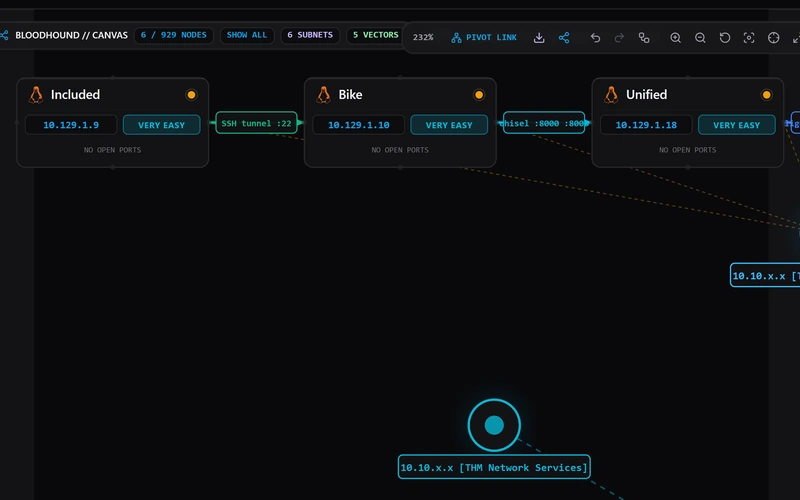
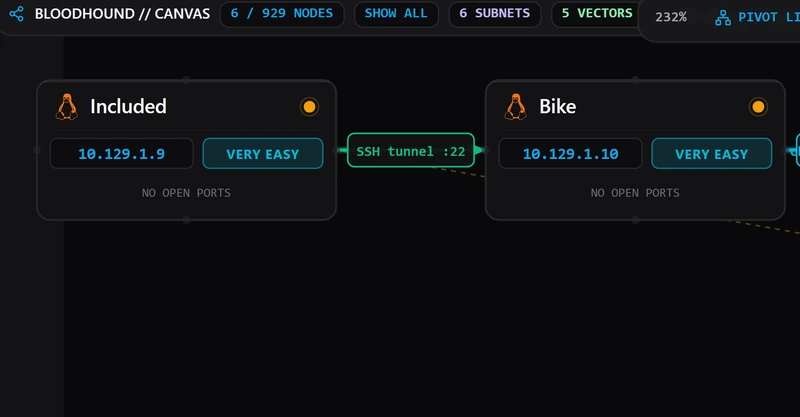
feat(site): composed hero scene with a browser window, pacing card, toast and readable crops
Replaces the two pasted screenshots with a layered scene: an HTML browser
frame around a focused app crop, an exam pacing card and a rabbit-hole
toast, each with its own elevation and a one-shot spring entrance. Phones
get the scene too. Graph and vault crops are tightened for legibility.

Claude-Session: https://claude.ai/code/session_01YH6H74T2HfFgAT5bbL9ywR

diff --git a/scripts/site/css/40-landing.css b/scripts/site/css/40-landing.css
@@ -5,12 +5,25 @@
 .frame{transition:transform var(--spring-dur) var(--spring),box-shadow var(--spring-dur) var(--spring);overflow:hidden;border-radius:var(--r-lg);background:var(--card);box-shadow:0 0 0 1px rgb(255 255 255/.1),0 24px 48px -20px rgb(0 0 0/.7)}
 .frame img{display:block;width:100%;height:auto}
 .frame picture{display:block}
-.hero{padding:var(--s6) 0 var(--s5)}
+.hero{padding:var(--s6) 0 var(--s5);overflow-x:clip}
 .hero-grid{display:grid;gap:var(--s6)}
 .hero h1{margin:0 0 var(--s4);font-size:clamp(2.25rem,1.5rem + 2.4vw,3.25rem);text-wrap:balance}
 .hero .lead{max-width:44ch;margin:0 0 var(--s5);color:var(--muted);font-size:1.125rem}
-.hero-media{position:relative}
-.hud{display:none}
+.hero-media{--hair:rgb(255 255 255/.1);--e1:0 0 0 1px var(--hair),0 28px 56px -24px rgb(0 0 0/.7);--e2:0 0 0 1px var(--hair),inset 0 1px 0 rgb(255 255 255/.05),0 4px 8px -2px rgb(0 0 0/.35),0 22px 40px -14px rgb(0 0 0/.8);--e3:0 0 0 1px rgb(255 255 255/.14),inset 0 1px 0 rgb(255 255 255/.06),0 6px 12px -3px rgb(0 0 0/.4),0 30px 52px -14px rgb(0 0 0/.85);position:relative;isolation:isolate;max-width:640px;margin:0 auto var(--s5)}
+.hero-media::before{content:"";position:absolute;z-index:-1;inset:-16% -12%;background:radial-gradient(closest-side,var(--elev),transparent);opacity:.85;pointer-events:none}
+.win{overflow:hidden;border-radius:var(--r-lg);background:#0c0c0f;box-shadow:var(--e1);transition:transform var(--spring-dur) var(--spring)}
+.win-bar{position:relative;display:flex;align-items:center;justify-content:center;height:28px;background:#131316;border-bottom:1px solid var(--hair)}
+.win-bar::before{content:"";position:absolute;left:12px;width:8px;height:8px;border-radius:50%;background:#3f3f46;box-shadow:14px 0 #3f3f46,28px 0 #3f3f46}
+.win-bar span{padding:4px 14px;border:1px solid var(--hair);border-radius:var(--r-pill);background:#0c0c0f;color:#a1a1aa;font:500 11px/1 var(--font-mono)}
+.win img{display:block;width:100%;height:auto}
+.fl{position:absolute;overflow:hidden;border-radius:var(--r-md);background:#121215;color:#e4e4e7;box-shadow:var(--e2);transition:transform var(--spring-dur) var(--spring)}
+.pace{position:relative;width:min(86%,300px);margin:-28px 0 0 auto}
+.pace img{display:block;width:100%;height:auto}
+.pace-h{display:flex;align-items:center;justify-content:space-between;gap:8px;padding:9px 12px;border-bottom:1px solid var(--hair);font:600 12px/1 var(--font-sans)}
+.chip{padding:3px 7px;border-radius:var(--r-pill);background:rgb(14 165 233/.14);color:#7dd3fc;font:500 11px/1.2 var(--font-mono);white-space:nowrap}
+.toast{z-index:1;top:44px;right:-8px;display:flex;align-items:center;gap:10px;padding:9px 14px 9px 9px;background:#18181b;box-shadow:var(--e3);color:#a1a1aa;font:500 12px/1.35 var(--font-sans);white-space:nowrap}
+.toast .ico{box-sizing:content-box;width:16px;height:16px;padding:6px;border-radius:6px;background:rgb(251 191 36/.14);color:#fbbf24}
+.toast b{display:block;color:#f4f4f5;font-weight:600}
 .proof{display:grid;grid-template-columns:repeat(2,minmax(0,1fr));gap:1px;margin:var(--s5) 0 0;padding:0;overflow:hidden;list-style:none;border:1px solid var(--line);border-radius:var(--r-lg);background:var(--line)}
 .proof li{display:flex;flex-direction:column;gap:2px;margin:0;padding:var(--s4);background:var(--bg)}
 .proof .num{font:600 1.25rem/1.3 var(--font-mono);letter-spacing:-.02em;color:var(--text);text-decoration:none;font-variant-numeric:tabular-nums}
@@ -67,14 +80,15 @@
 .landing .site-footer{margin-top:0}
 @media(min-width:560px){.mods{grid-template-columns:repeat(2,1fr)}}
 @media(min-width:768px){.guides{grid-template-columns:repeat(2,minmax(0,1fr))}.guides li:first-child{grid-column:1/-1}.proof .num{font-size:1.5rem}.proof .proof-text .num{font-size:1.25rem}}
-@media(max-width:599px){.hero-media .frame{max-width:480px;margin-inline:auto}}
+@media(max-width:599px){.win img{aspect-ratio:4/3;object-fit:cover;object-position:top}}
 @media(max-width:479px){.cta-row{flex-direction:column;align-items:stretch}.cta-row .btn,.exam-copy>.btn{width:100%}.closing-inner{align-items:stretch}.closing .cta-row{width:100%}}
 @media(min-width:900px){
 .cell{padding:var(--s5)}
-.hero{padding:var(--s8) 0 var(--s6)}
+.hero{padding:var(--s7) 0 var(--s6)}
 .hero-grid{grid-template-columns:minmax(0,5fr) minmax(0,6fr);gap:var(--s7);align-items:center}
-.hero-media{margin-bottom:var(--s6)}
-.hud{display:block;position:absolute;left:-9%;bottom:-8%;width:clamp(200px,38%,300px)}
+.hero-media{max-width:none;margin:0 0 var(--s6)}
+.pace{position:absolute;left:-7%;bottom:-12%;width:340px;margin:0}
+.toast{top:13%;right:-12px;font-size:13px}
 .proof{grid-template-columns:repeat(4,minmax(0,1fr))}
 .bento{grid-template-columns:repeat(12,1fr)}
 .c-graph,.c-vault{grid-column:span 7}
@@ -87,6 +101,6 @@
 .faq-aside{position:sticky;top:calc(var(--header-h) + var(--s5))}
 .guides{grid-template-columns:repeat(3,minmax(0,1fr));column-gap:var(--s6)}
 }
-@media(hover:hover) and (pointer:fine){.hero-media:hover>.frame:not(.hud){transform:translateY(-2px);box-shadow:0 0 0 1px rgb(255 255 255/.14),0 30px 56px -20px rgb(0 0 0/.75)}.hero-media:hover .hud{transform:translate(-4px,4px)}.cell:hover{transform:translateY(-2px);border-color:var(--line-strong);box-shadow:0 14px 28px -16px rgb(0 0 0/.6)}.mod:hover{background:var(--card)}.guides a:hover .g-t{color:var(--accent-hover)}}
+@media(hover:hover) and (pointer:fine){.hero-media:hover .win{transform:translateY(-3px)}.hero-media:hover .pace{transform:translate(-6px,6px)}.hero-media:hover .toast{transform:translate(6px,-6px)}.cell:hover{transform:translateY(-2px);border-color:var(--line-strong);box-shadow:0 14px 28px -16px rgb(0 0 0/.6)}.mod:hover{background:var(--card)}.guides a:hover .g-t{color:var(--accent-hover)}}
 .landing main{padding:0}
-@media(prefers-reduced-motion:reduce){.frame,.cell,.mod{transition:none}.hero-media:hover>.frame,.hero-media:hover .hud,.cell:hover,.mod:active{transform:none}}
+@media(prefers-reduced-motion:reduce){.frame,.win,.fl,.cell,.mod{transition:none}.hero-media:hover .win,.hero-media:hover .fl,.cell:hover,.mod:active{transform:none}}

diff --git a/scripts/site/css/50-motion.css b/scripts/site/css/50-motion.css
@@ -1,9 +1,13 @@
-/* 50-motion: CSS-only motion. No transition:all, no infinite loops, no opacity animation on the h1 or the LCP image. */
+/* 50-motion: CSS-only motion. No transition:all, no infinite loops, no opacity animation on the h1 or the LCP image (the hero window only rises). */
 @keyframes rise{from{opacity:0;transform:translateY(8px)}}
-@keyframes hud-in{from{opacity:0;transform:translate(24px,12px)}}
+@keyframes win-in{from{transform:translateY(14px)}}
+@keyframes pace-in{from{opacity:0;transform:translate(-18px,16px)}}
+@keyframes toast-in{from{opacity:0;transform:translateY(8px) scale(.96)}}
 @keyframes fade{from{opacity:0}}
 @media(prefers-reduced-motion:no-preference){
-.hud{animation:hud-in 520ms var(--ease) 150ms backwards}
+.win{animation:win-in 560ms var(--ease) backwards}
+.pace{animation:pace-in 640ms var(--spring) 200ms backwards}
+.toast{animation:toast-in 460ms var(--spring) 900ms backwards}
 .hero .lead{animation:rise 420ms var(--spring) 60ms backwards}
 .hero .cta-row{animation:rise 420ms var(--spring) 120ms backwards}
 .proof li{animation:rise 360ms var(--spring) backwards}
@@ -22,5 +26,8 @@
 ::view-transition-old(root),::view-transition-new(root){animation-duration:240ms;animation-timing-function:ease}
 .theme-anim body,.theme-anim .site-header,.theme-anim .card,.theme-anim .closing{transition:background-color .24s,color .24s,border-color .24s}
 @media(prefers-reduced-motion:reduce){
-.hero .lead,.hero .cta-row,.hud,.proof li{animation:fade 150ms ease-out backwards}
+.hero .lead,.hero .cta-row,.proof li{animation:fade 150ms ease-out backwards}
+.win{animation:none}
+.pace,.toast{animation:fade 240ms ease-out 200ms backwards}
+.toast{animation-delay:450ms}
 }

diff --git a/scripts/site/css/60-light.css b/scripts/site/css/60-light.css
@@ -18,4 +18,5 @@ color-scheme:light;
 :root[data-theme="light"] pre,:root[data-theme="light"] .code{--text:#f4f4f5;--text-2:#e4e4e7;--faint:#87878f;--accent-hover:#38bdf8;--code:#0c0c0f;--line:#27272a}
 /* Screenshots are dark images: give the frames a visible edge on a light page. */
 :root[data-theme="light"] .frame{background:#18181b;box-shadow:0 0 0 1px rgb(9 9 11/.28),0 24px 48px -24px rgb(9 9 11/.35)}
+:root[data-theme="light"] .hero-media{--e1:0 0 0 1px rgb(9 9 11/.28),0 24px 48px -24px rgb(9 9 11/.38);--e2:0 0 0 1px var(--hair),inset 0 1px 0 rgb(255 255 255/.05),0 4px 8px -2px rgb(9 9 11/.25),0 20px 36px -14px rgb(9 9 11/.5);--e3:0 0 0 1px rgb(255 255 255/.14),inset 0 1px 0 rgb(255 255 255/.06),0 6px 12px -3px rgb(9 9 11/.3),0 26px 44px -14px rgb(9 9 11/.55)}
 :root[data-theme="light"] .cell .frame{box-shadow:0 0 0 1px rgb(9 9 11/.28),0 12px 24px -14px rgb(9 9 11/.3)}

diff --git a/scripts/templates/landing.html b/scripts/templates/landing.html
@@ -68,8 +68,15 @@
         </div>
       </div>
       <div class="hero-media">
-        <div class="frame">{{IMG_HERO}}</div>
-        <div class="frame hud">{{IMG_HUD}}</div>
+        <div class="win">
+          <div class="win-bar" aria-hidden="true"><span>ctftracker.com/tracker</span></div>
+          {{IMG_HERO}}
+        </div>
+        <div class="fl pace" aria-hidden="true">
+          <div class="pace-h"><span>Exam pacing</span><span class="chip">3h in · 30/100</span></div>
+          {{IMG_HUD}}
+        </div>
+        <div class="fl toast" aria-hidden="true">{{ICON_WARN}}<span><b>Rabbit hole</b>91 min on Bike. Pivot?</span></div>
       </div>
     </div>
   </section>
